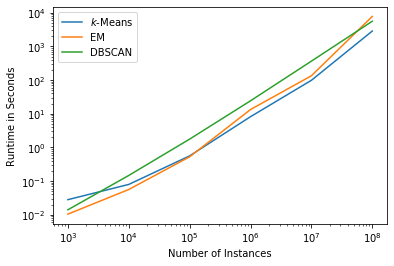
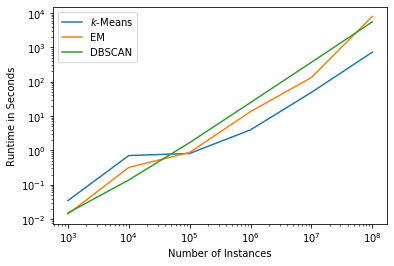
new runtime analysis for clustering and work on classification

diff --git a/_build/07_Classification.html b/_build/07_Classification.html
@@ -13,7 +13,7 @@ prev_page:
 next_page:
   url: /Exercises.html
 suffix: .ipynb
-search: class decision data metrics classification c classes not positive instances example e hypothesis negative b features performance confusion only x matrix whale predicted tdtd tpr trees because tree thus h same four values random case spam different td tr average used prediction false based feature curve concept value instance frac get means result fpr roc entropy our binary threshold between predictions classifier surface also scores single sum emails mean correctly above table mcc training objects often where percentage macro small decisions weak consider following well f true information positives however very area yellow general usually such similar want should informative
+search: class c decision data classification metrics classes not positive instances b e example odds hypothesis features negative because performance confusion feature only x matrix whale thus predicted tdtd tpr random trees means frac tree case four values y p h same different spam instance td tr average used prediction false our concept based value curve sepal also get result fpr roc entropy binary threshold between predictions classifier surface scores single sum emails mean correctly above table mcc very training length decisions objects f often where percentage macro small weak consider following general well defined true information positives should however area
 
 comment: "***PROGRAMMATICALLY GENERATED, DO NOT EDIT. SEE ORIGINAL FILES IN /content***"
 ---
@@ -1293,7 +1293,14 @@ $$I(C; X') = H(C)-H(C|X').$$<p>Thus, the most informative feature is the feature
 
 <div class="cell border-box-sizing text_cell rendered"><div class="inner_cell">
 <div class="text_cell_render border-box-sizing rendered_html">
-<h2 id="Logistic-Regression">Logistic Regression<a class="anchor-link" href="#Logistic-Regression"> </a></h2>
+<h2 id="Logistic-Regression">Logistic Regression<a class="anchor-link" href="#Logistic-Regression"> </a></h2><p>Logistic regression tries to estimate the <em>odds</em> that an instance belongs to a class. To understand what this means, we briefly revisit the concept of odds from statistics. Let $P(Y=c)$ be the probability that a random variable $Y$ equals $c$. The odds of $Y$ being $c$ are defined as</p>
+$$odds(c) = \frac{P(Y=c)}{1-P(Y=c)}.$$<p>What this means gets clear with an example. Assume the random variable $Y$ models the probability of passing an exam and $c=pass$ with $P(Y=pass)=0.75$. This means that the odds of passing the exam are</p>
+$$odds(pass) = \frac{0.75}{1-0.75} = 3.$$<p>In other words, the odds are of passing the exam is three to one.</p>
+<p>The odds are closely related to the logistic or <em>logit</em> function, which is defined as</p>
+$$logit(P(Y=c)) = \ln \frac{P(Y=c)}{1-P(Y=c)},$$<p>i.e., as the natural logarithm of the odds of $c$. This function is the namesake of logistic regression. When we say that the random variable $Y$ models that probability that an instance belongs to a class, and $c \in C$ are our classes, then $logit(P(Y=c))$ is nothing else but the logarithm of the odds that the instance is of that class.</p>
+<p>The regression is nothing more than a linear regression (details in Chapter 8) of the form</p>
+$$logit(P(Y=c)) = \ln \frac{P(Y=c)}{1-P(Y=c)} = b_0 + b_1x_1 + ... + b_mx_m$$<p>for with features $\mathcal{F} = \mathbb{R}^m$. In two dimensions, the forumula of linear regression describes a line, in three dimensions a plane, etc. This is also how our decision boundaries look like.</p>
+
 </div>
 </div>
 </div>
@@ -1340,6 +1347,120 @@ $$I(C; X') = H(C)-H(C|X').$$<p>Thus, the most informative feature is the feature
 
 <div class="cell border-box-sizing text_cell rendered"><div class="inner_cell">
 <div class="text_cell_render border-box-sizing rendered_html">
+<p>The decisions are made along lines that separate the feature space into different regions. A strength of logistic regression is that we can understand how each feature affects the classification. This is because we have a regression model of the logit function. We can reformulate this using the exponential function as follows:</p>
+$$
+\begin{split}
+&amp;\ln \frac{P(Y=c)}{1-P(Y=c)} &amp;= b_0 + b_1x_1 + ... + b_mx_m \\
+\Rightarrow\quad &amp;\frac{P(Y=c)}{1-P(Y=c)} &amp;= \exp( b_0 + b_1x_1 + ... + b_mx_m ) \\
+\Rightarrow\quad &amp;odds(c) &amp;= \exp( b_0 ) \cdot \Pi_{i=1}^m \exp(b_ix_i) \\
+\end{split}
+$$<p>Thus, the odds of the class are the product of these exponentials. The impact of feature $i, i=1, ..., m$ on the odds is $\exp(b_ix_i)$. From this follows that $exp(b_j)$ is the <em>odds ratio</em> of feature $i$. The odds ratio defines by how much the odds change due to this feature. For example, an odds ratio of 2 means that the odds would double if the value of the feature would be increased by one. In general, an odds ratio greater than one means that the odds increase if $x_i$ increases, an odds ratio of less than 1 means that the odds decrease if $x_i$ increases. Because the exponent of the coefficients is the odds ratio, the coefficient are also called the <em>log odds ratios</em>.</p>
+<p>We can also determine the odds ratios for our logistic regression model of the Iris.</p>
+
+</div>
+</div>
+</div>
+</div>
+
+<div class="jb_cell tag_hide_input">
+
+<div class="cell border-box-sizing code_cell rendered">
+<div class="input">
+
+<div class="inner_cell">
+    <div class="input_area">
+<div class=" highlight hl-ipython3"><pre><span></span><span class="n">lr</span> <span class="o">=</span> <span class="n">LogisticRegression</span><span class="p">()</span>
+<span class="n">lr</span><span class="o">.</span><span class="n">fit</span><span class="p">(</span><span class="n">X</span><span class="p">,</span><span class="n">Y</span><span class="p">)</span>
+<span class="n">odds_df</span> <span class="o">=</span> <span class="n">pd</span><span class="o">.</span><span class="n">DataFrame</span><span class="p">(</span><span class="n">np</span><span class="o">.</span><span class="n">exp</span><span class="p">(</span><span class="n">lr</span><span class="o">.</span><span class="n">coef_</span><span class="p">),</span> <span class="n">index</span><span class="o">=</span><span class="n">class_names</span><span class="p">,</span> <span class="n">columns</span><span class="o">=</span><span class="n">X</span><span class="o">.</span><span class="n">columns</span><span class="p">)</span>
+<span class="n">odds_df</span><span class="p">[</span><span class="s1">&#39;intercept&#39;</span><span class="p">]</span> <span class="o">=</span> <span class="n">np</span><span class="o">.</span><span class="n">exp</span><span class="p">(</span><span class="n">lr</span><span class="o">.</span><span class="n">intercept_</span><span class="p">)</span>
+<span class="n">odds_df</span>
+</pre></div>
+
+    </div>
+</div>
+</div>
+
+<div class="output_wrapper">
+<div class="output">
+
+<div class="jb_output_wrapper }}">
+<div class="output_area">
+
+
+<div class="output_html rendered_html output_subarea output_execute_result">
+<div>
+<style scoped>
+    .dataframe tbody tr th:only-of-type {
+        vertical-align: middle;
+    }
+
+    .dataframe tbody tr th {
+        vertical-align: top;
+    }
+
+    .dataframe thead th {
+        text-align: right;
+    }
+</style>
+<table border="1" class="dataframe">
+  <thead>
+    <tr style="text-align: right;">
+      <th></th>
+      <th>sepal length (cm)</th>
+      <th>sepal width (cm)</th>
+      <th>intercept</th>
+    </tr>
+  </thead>
+  <tbody>
+    <tr>
+      <th>setosa</th>
+      <td>0.066610</td>
+      <td>10.216701</td>
+      <td>2733.180675</td>
+    </tr>
+    <tr>
+      <th>versicolor</th>
+      <td>1.845467</td>
+      <td>0.207923</td>
+      <td>6.328398</td>
+    </tr>
+    <tr>
+      <th>virginica</th>
+      <td>8.134952</td>
+      <td>0.470746</td>
+      <td>0.000058</td>
+    </tr>
+  </tbody>
+</table>
+</div>
+</div>
+
+</div>
+</div>
+</div>
+</div>
+
+</div>
+</div>
+
+<div class="jb_cell">
+
+<div class="cell border-box-sizing text_cell rendered"><div class="inner_cell">
+<div class="text_cell_render border-box-sizing rendered_html">
+<p>We can see that the odds of Setosa increases strongly with the sepal width and decreases with the sepal length. Similarly, we can see that the odds of Versicolor and Virginica both increase with the sepal length and decrease with the sepal width. The intercept are the odds in case all features are exactly 0, i.e., $b_0$. Thus, all changes due to increasing feature values are with respect to the intercept. Because the intercept of Versicolor is larger than that of Virginica, there is a region in which the odds for Versicolor are larger, even though the increase in odds due to the sepal length is weaker and the decrease in odds is stronger than for Virginica.</p>
+<blockquote><p>Note:</p>
+<p>In this case the intercept is misleading. While the intercept for Setosa is very high, the coefficient for sepal length is very low. Given that the instances all have sepal lengths greater than four, this means that the impact of the large intercept vanishes because of this. For an in-depth analysis, the data should always be centered, e.g., with Z-score standardization.</p>
+</blockquote>
+
+</div>
+</div>
+</div>
+</div>
+
+<div class="jb_cell">
+
+<div class="cell border-box-sizing text_cell rendered"><div class="inner_cell">
+<div class="text_cell_render border-box-sizing rendered_html">
 <h2 id="Naive-Bayes">Naive Bayes<a class="anchor-link" href="#Naive-Bayes"> </a></h2>
 </div>
 </div>
@@ -1374,7 +1495,7 @@ $$I(C; X') = H(C)-H(C|X').$$<p>Thus, the most informative feature is the feature
 
 
 <div class="output_png output_subarea ">
-<img src="images/07_Classification_44_0.png"
+<img src="images/07_Classification_47_0.png"
 >
 </div>
 
@@ -1472,7 +1593,7 @@ $$I(C; X') = H(C)-H(C|X').$$<p>Thus, the most informative feature is the feature
 
 
 <div class="output_png output_subarea ">
-<img src="images/07_Classification_46_0.png"
+<img src="images/07_Classification_49_0.png"
 >
 </div>
 
@@ -1544,7 +1665,7 @@ $$I(C; X') = H(C)-H(C|X').$$<p>Thus, the most informative feature is the feature
 
 
 <div class="output_png output_subarea ">
-<img src="images/07_Classification_47_0.png"
+<img src="images/07_Classification_50_0.png"
 >
 </div>
 
@@ -1586,7 +1707,7 @@ $$I(C; X') = H(C)-H(C|X').$$<p>Thus, the most informative feature is the feature
 
 
 <div class="output_png output_subarea ">
-<img src="images/07_Classification_48_0.png"
+<img src="images/07_Classification_51_0.png"
 >
 </div>
 
@@ -1643,7 +1764,7 @@ $$I(C; X') = H(C)-H(C|X').$$<p>Thus, the most informative feature is the feature
 
 
 <div class="output_png output_subarea ">
-<img src="images/07_Classification_50_0.png"
+<img src="images/07_Classification_53_0.png"
 >
 </div>
 

diff --git a/_build/06_Clustering.html b/_build/06_Clustering.html
@@ -13,7 +13,7 @@ prev_page:
 next_page:
   url: /07_Classification.html
 suffix: .ipynb
-search: clusters k cluster clustering x not means points data also instances algorithm e between because core c distance values em example dbscan same similar based different results middle slink features only however bic used thus mean bottom left good minpts objects algorithms such green wss value instance right neighbors epsilon into result d determine purple general large center covariance houses top must yellow very cities our still small parameters level above distances any concept ci point normal covariances likelihood o update iteration problems within f defined y cannot instead should belongs town describe assigned dense already distributions g bit just
+search: clusters k cluster clustering x not means points data also instances algorithm e between because core c distance values em example dbscan same similar based different results middle slink features only however bic used thus mean bottom left good minpts objects algorithms such green wss value right neighbors epsilon into result d determine purple general large center instance covariance houses top must yellow very cities our still small parameters level above distances any concept ci point normal covariances likelihood o update iteration problems within f defined cannot instead should belongs town describe assigned dense already distributions g bit just problem
 
 comment: "***PROGRAMMATICALLY GENERATED, DO NOT EDIT. SEE ORIGINAL FILES IN /content***"
 ---
@@ -1560,14 +1560,14 @@ $$d(C, C') = \min_{x\in C, x' \in X'} dist(x, x').$$<p>Each cluster that is dete
 <p>The second row shows the results for the half-moons. We see what we already discussed above: $k$-Means can only find more or less circular clusters and EM ellipsoid clusters. Thus, both fail on that data and the clusters do not make sense. DBSCAN and SLINK work well, because they build their clusters on pair-wise neighborship of instances, which works with any shape of clusters, as long there is a gap between the clusters. This can be broken by a "bridge" between the two moons is demonstrated in the third row.</p>
 <p>The fourth row demonstrates that while $k$-Means and EM clustering work in general for round shapes, it is also important that these round shapes are not within each other. If we have a circle within a circle, this is also not correctly identified by the clustering.</p>
 <h3 id="Number-of-Clusters">Number of Clusters<a class="anchor-link" href="#Number-of-Clusters"> </a></h3><p>Another strength of DBSCAN and SLINK clustering is that they can determine the number of clusters automatically, just by knowing the definition of core points, respectively the maximum level. EM clustering also provides good support to determine the number of clusters with the BIC, which has a minimal value that is optimal. The WSS may be used for $k$-Means, but looking for elbows in a plot is very fuzzy and requires a high expertise by the data scientists.</p>
-<h3 id="Execution-Time">Execution Time<a class="anchor-link" href="#Execution-Time"> </a></h3><p>While the cluster results are certainly important, the execution time can also be a factor. Below are the results of the execution time of clustering data with 20 features for 10,000, 100,000, 1,000,000, 10,000,000, and 100,000,000 instances, i.e. up to about 15 Gigabytes of data. Please note that we omit SLINK from this comparison, because it already crashes with 100,000 instances. The measurements are done with a normal laptop (Intel Core i7-8850 @ 2.60GHz, 32 GB RAM) with scikit-learn 0.22.</p>
+<h3 id="Execution-Time">Execution Time<a class="anchor-link" href="#Execution-Time"> </a></h3><p>While the cluster results are certainly important, the execution time can also be a factor. Below are the results of the execution time of clustering data with 20 features for 10,000, 100,000, 1,000,000, 10,000,000, and 100,000,000 instances, i.e. up to about 15 Gigabytes of data. Please note that we omit SLINK from this comparison, because it already crashes with 100,000 instances. The measurements are done with a normal laptop (Intel Core i7-8850 @ 2.60GHz, 32 GB RAM) with scikit-learn 0.23.1.</p>
 
 </div>
 </div>
 </div>
 </div>
 
-<div class="jb_cell tag_hide_input">
+<div class="jb_cell">
 
 <div class="cell border-box-sizing code_cell rendered">
 <div class="input">
@@ -1591,7 +1591,6 @@ $$d(C, C') = \min_{x\in C, x' \in X'} dist(x, x').$$<p>Each cluster that is dete
     <span class="n">GaussianMixture</span><span class="p">(</span><span class="n">n_components</span><span class="o">=</span><span class="mi">4</span><span class="p">,</span><span class="n">random_state</span><span class="o">=</span><span class="mi">0</span><span class="p">,</span> <span class="n">warm_start</span><span class="o">=</span><span class="kc">False</span><span class="p">),</span>
     <span class="n">DBSCAN</span><span class="p">(</span><span class="n">eps</span><span class="o">=</span><span class="mf">0.01</span><span class="p">,</span> <span class="n">min_samples</span><span class="o">=</span><span class="mi">4</span><span class="p">)]</span>
 
-
 <span class="n">instances</span> <span class="o">=</span> <span class="p">[</span><span class="mf">1e3</span><span class="p">,</span><span class="mf">1e4</span><span class="p">,</span><span class="mf">1e5</span><span class="p">,</span><span class="mf">1e6</span><span class="p">,</span><span class="mf">1e7</span><span class="p">,</span><span class="mf">1e8</span><span class="p">]</span>
 <span class="n">runtime</span> <span class="o">=</span> <span class="p">[[],[],[]]</span>
 <span class="k">for</span> <span class="n">num_instances</span> <span class="ow">in</span> <span class="n">instances</span><span class="p">:</span>
@@ -1601,7 +1600,6 @@ $$d(C, C') = \min_{x\in C, x' \in X'} dist(x, x').$$<p>Each cluster that is dete
         <span class="n">start_time</span> <span class="o">=</span> <span class="n">timeit</span><span class="o">.</span><span class="n">default_timer</span><span class="p">()</span>
         <span class="n">cl</span><span class="o">.</span><span class="n">fit</span><span class="p">(</span><span class="n">X</span><span class="p">)</span>
         <span class="n">elapsed</span> <span class="o">=</span> <span class="n">timeit</span><span class="o">.</span><span class="n">default_timer</span><span class="p">()</span> <span class="o">-</span> <span class="n">start_time</span>
-        <span class="n">times_fit</span><span class="o">.</span><span class="n">append</span><span class="p">(</span><span class="n">elapsed</span><span class="p">)</span>
         <span class="n">runtime</span><span class="p">[</span><span class="n">cl_cnt</span><span class="p">]</span><span class="o">.</span><span class="n">append</span><span class="p">(</span><span class="n">elapsed</span><span class="p">)</span>
         
 <span class="n">plt</span><span class="o">.</span><span class="n">figure</span><span class="p">()</span>
